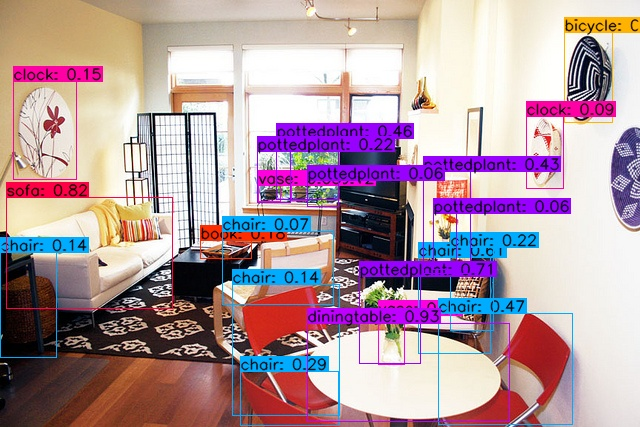
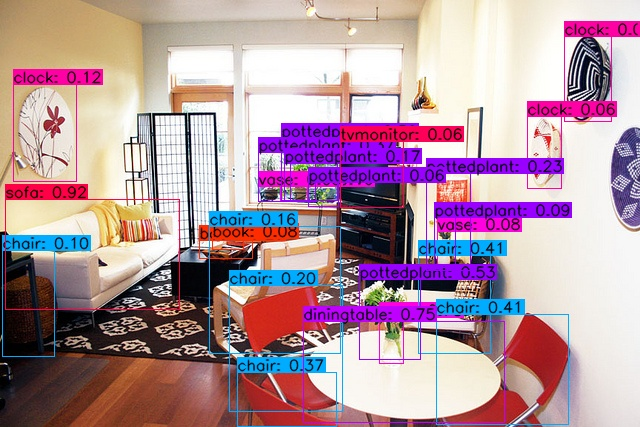
model

Changed region(s): [[0.0, 0.0304, 1.0, 1.0], [0.0, 0.1522, 0.1562, 0.2131]]

diff --git a/demo.py b/demo.py
@@ -45,7 +45,7 @@ if __name__ == '__main__':
     classes_path = 'data/coco_classes.txt'
     # model_path可以是'yolov4.h5'、'./weights/step00001000.h5'这些。
     # model_path = 'yolov4.h5'
-    model_path = './weights/step00040000.h5'
+    model_path = './weights/step00070000.h5'
 
     # input_shape越大，精度会上升，但速度会下降。
     # input_shape = (320, 320)

diff --git a/README.md b/README.md
@@ -30,25 +30,25 @@ PaddlePaddle版：https://github.com/miemie2013/Paddle-DIOU-YOLOv3
 后处理改为用张量操作实现；更多调优。
 
 ## 文件下载
-一个没有训练充分的模型step00040000.h5，用6G的卡训练，冻结了conv2d_86之前的层，训练了40000步，mAP=0.323，
+一个没有训练充分的模型step00070000.h5，用6G的卡训练，冻结了conv2d_86之前的层，训练了70000步，
 
-链接：https://pan.baidu.com/s/1bsu_FJ72sdiYaZRjL7h9iQ 
-提取码：g1y1
+链接：https://pan.baidu.com/s/17R9pmdsxLo2cx-0M-EVfyg 
+提取码：ib2u
 
-下载好之后，运行eval.py得到该模型的mAP=0.323（input_shape = (608, 608)，分数阈值=0.05，nms阈值=0.45的情况下）：
+下载好之后，运行eval.py得到该模型的mAP（input_shape = (608, 608)，分数阈值=0.05，nms阈值=0.45的情况下）：
 ```
-Average Precision  (AP) @[ IoU=0.50:0.95 | area=   all | maxDets=100 ] = 0.323
-Average Precision  (AP) @[ IoU=0.50      | area=   all | maxDets=100 ] = 0.540
-Average Precision  (AP) @[ IoU=0.75      | area=   all | maxDets=100 ] = 0.351
-Average Precision  (AP) @[ IoU=0.50:0.95 | area= small | maxDets=100 ] = 0.171
-Average Precision  (AP) @[ IoU=0.50:0.95 | area=medium | maxDets=100 ] = 0.347
-Average Precision  (AP) @[ IoU=0.50:0.95 | area= large | maxDets=100 ] = 0.444
-Average Recall     (AR) @[ IoU=0.50:0.95 | area=   all | maxDets=  1 ] = 0.260
-Average Recall     (AR) @[ IoU=0.50:0.95 | area=   all | maxDets= 10 ] = 0.393
-Average Recall     (AR) @[ IoU=0.50:0.95 | area=   all | maxDets=100 ] = 0.406
-Average Recall     (AR) @[ IoU=0.50:0.95 | area= small | maxDets=100 ] = 0.224
-Average Recall     (AR) @[ IoU=0.50:0.95 | area=medium | maxDets=100 ] = 0.432
-Average Recall     (AR) @[ IoU=0.50:0.95 | area= large | maxDets=100 ] = 0.538
+Average Precision  (AP) @[ IoU=0.50:0.95 | area=   all | maxDets=100 ] = 0.355
+Average Precision  (AP) @[ IoU=0.50      | area=   all | maxDets=100 ] = 0.562
+Average Precision  (AP) @[ IoU=0.75      | area=   all | maxDets=100 ] = 0.382
+Average Precision  (AP) @[ IoU=0.50:0.95 | area= small | maxDets=100 ] = 0.184
+Average Precision  (AP) @[ IoU=0.50:0.95 | area=medium | maxDets=100 ] = 0.386
+Average Precision  (AP) @[ IoU=0.50:0.95 | area= large | maxDets=100 ] = 0.495
+Average Recall     (AR) @[ IoU=0.50:0.95 | area=   all | maxDets=  1 ] = 0.280
+Average Recall     (AR) @[ IoU=0.50:0.95 | area=   all | maxDets= 10 ] = 0.424
+Average Recall     (AR) @[ IoU=0.50:0.95 | area=   all | maxDets=100 ] = 0.439
+Average Recall     (AR) @[ IoU=0.50:0.95 | area= small | maxDets=100 ] = 0.240
+Average Recall     (AR) @[ IoU=0.50:0.95 | area=medium | maxDets=100 ] = 0.470
+Average Recall     (AR) @[ IoU=0.50:0.95 | area= large | maxDets=100 ] = 0.593
 ```
 追求更高的精度，你需要把冻结层的代码删除，也就是train.py中ly.trainable = False那一部分。但是需要你有一块高显存的显卡。
 
@@ -70,7 +70,7 @@ xxx/xxx.jpg 48,240,195,371,11 8,12,352,498,14
 # make sure that x_max < width and y_max < height
 ```
 
-或者你不下载yolov4.pt，而是下载上面提到的训练不充分的step00040000.h5继续训练也可以。
+或者你不下载yolov4.pt，而是下载上面提到的训练不充分的step00070000.h5继续训练也可以。
 追求更高的精度，你需要把冻结层的代码删除，也就是train.py中ly.trainable = False那一部分。但是需要你有一块高显存的显卡。
 训练时默认每5000步计算一次验证集的mAP。
 
